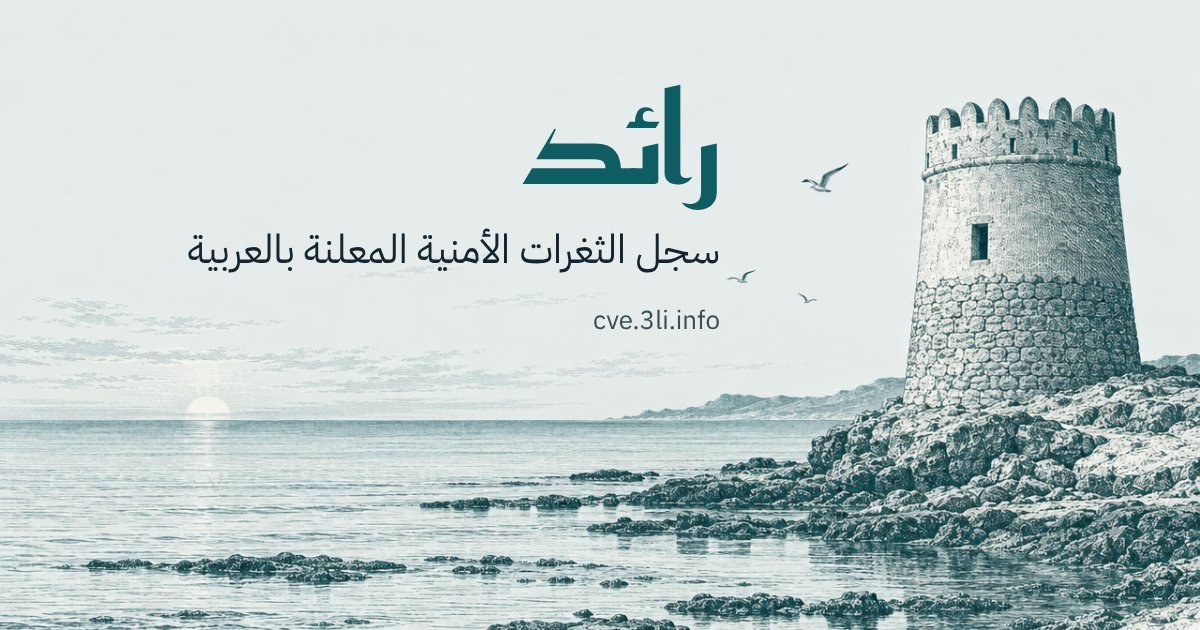
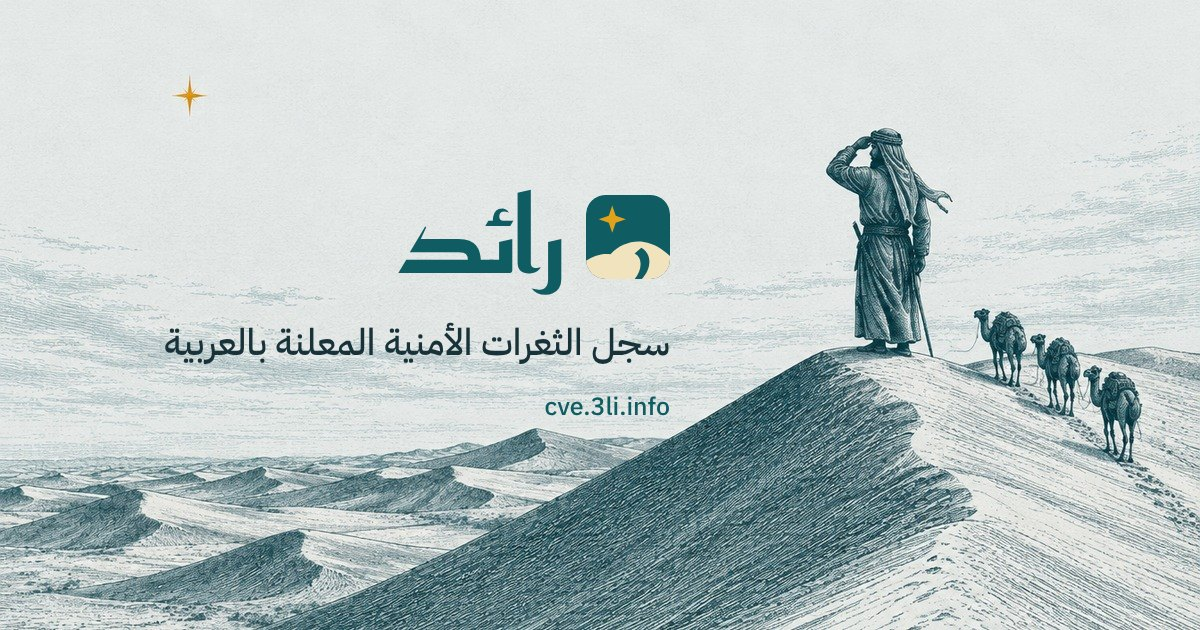
شعار جديد وأيقونات وصورة الرائد (#8)

diff --git a/docs/about/index.html b/docs/about/index.html
@@ -16,6 +16,9 @@
 <meta name="twitter:card" content="summary_large_image">
 <meta name="theme-color" content="#0f5c63">
 <link rel="icon" href="/assets/img/mark.svg" type="image/svg+xml">
+<link rel="icon" href="/assets/img/favicon-32.png" sizes="32x32" type="image/png">
+<link rel="apple-touch-icon" href="/assets/img/apple-touch-icon.png">
+<link rel="manifest" href="/manifest.webmanifest">
 <link rel="alternate" type="application/atom+xml" title="رائد: الثغرات الحرجة والمستغلة" href="/feed.xml">
 <link rel="preconnect" href="https://fonts.googleapis.com">
 <link rel="preconnect" href="https://fonts.gstatic.com" crossorigin>
@@ -29,7 +32,7 @@
 <a class="skip" href="#main">انتقل إلى المحتوى</a>
 <header class="top">
   <div class="wrap">
-    <a class="brand" href="/"><svg viewBox="0 0 40 40" aria-hidden="true"><path fill="currentColor" d="M6 6h6v5h4V6h8v5h4V6h6v12l-3 3v15H9V21l-3-3z" opacity=".18"/><path fill="none" stroke="currentColor" stroke-width="2.4" stroke-linejoin="round" d="M6 6h6v5h4V6h8v5h4V6h6v12l-3 3v15H9V21l-3-3z"/><path fill="currentColor" d="M17 36v-7a3 3 0 0 1 6 0v7z"/><rect x="18.8" y="16" width="2.4" height="6" rx="1.2" fill="currentColor"/></svg><span><b>رائد</b><small>سجل الثغرات الأمنية المعلنة بالعربية</small></span></a>
+    <a class="brand" href="/"><svg viewBox="0 0 48 48" aria-hidden="true"> <defs><clipPath id="mk"><rect width="48" height="48" rx="11"/></clipPath></defs> <rect width="48" height="48" rx="11" fill="#0f5c63"/> <path fill="#e0a21b" d="M15 6 L17 11.8 L22.8 13.8 L17 15.8 L15 21.6 L13 15.8 L7.2 13.8 L13 11.8 Z"/> <g clip-path="url(#mk)"> <path fill="#f2e3bf" d="M-2 48 L-2 39 C 4 34.5, 9 33.2, 14 33.8 C 19 28.5, 26 25.8, 33 26.8 C 40 27.9, 45.5 32, 50 37 L50 48 Z"/> <path fill="#0f5c63" d="M31.6 30.2 C 34.6 31.8, 36.4 34.8, 36.2 38.6 C 36 43, 33.6 46.6, 30.4 49.5 L 26.6 49.5 C 29.4 46.4, 31.2 43, 31.2 39.4 C 31.2 36.6, 30 34.6, 27.8 33.4 Z"/> </g> </svg><span><b>رائد</b><small>سجل الثغرات الأمنية المعلنة بالعربية</small></span></a>
     <button class="menu" type="button" aria-expanded="false" aria-controls="nav">القائمة</button>
     <nav class="nav" id="nav" aria-label="الأقسام"><a href="/latest/">أحدث الثغرات</a><a href="/kev/">المستغلة فعلياً</a><a href="/week/">النشرة الأسبوعية</a><a href="/about/" aria-current="page">عن البرنامج</a><a href="/cna/">الجهات المرقّمة</a><a href="/glossary/">المصطلحات</a></nav>
     <button class="theme" type="button" aria-label="تبديل المظهر الفاتح والداكن"><svg viewBox="0 0 24 24" fill="none" stroke="currentColor" stroke-width="2"><path d="M21 12.8A9 9 0 1 1 11.2 3a7 7 0 0 0 9.8 9.8z"/></svg></button>
@@ -48,7 +51,7 @@
   </div>
 
   <figure class="figure">
-    <img src="/assets/img/watchtower.webp" alt="برج مراقبة ساحلي من الحجر المرجاني يطل على البحر عند الفجر" width="1280" height="549" loading="lazy">
+    <img src="/assets/img/scout.webp" alt="رائد واقف على قمة كثيب يظلل عينيه ويتطلع إلى نجمة في الأفق، وخلفه قافلة من الإبل تتبعه" width="1280" height="549" loading="lazy">
     <figcaption>الرائد في العربية من يتقدم قومه فيستكشف لهم الطريق ويحذّرهم مما أمامه، ومن أمثالهم «الرائد لا يكذب أهله»، ومنه اسم هذا السجل.</figcaption>
   </figure>
 

diff --git a/docs/advisories/index.html b/docs/advisories/index.html
@@ -16,6 +16,9 @@
 <meta name="twitter:card" content="summary_large_image">
 <meta name="theme-color" content="#0f5c63">
 <link rel="icon" href="/assets/img/mark.svg" type="image/svg+xml">
+<link rel="icon" href="/assets/img/favicon-32.png" sizes="32x32" type="image/png">
+<link rel="apple-touch-icon" href="/assets/img/apple-touch-icon.png">
+<link rel="manifest" href="/manifest.webmanifest">
 <link rel="alternate" type="application/atom+xml" title="رائد: الثغرات الحرجة والمستغلة" href="/feed.xml">
 <link rel="preconnect" href="https://fonts.googleapis.com">
 <link rel="preconnect" href="https://fonts.gstatic.com" crossorigin>
@@ -29,7 +32,7 @@
 <a class="skip" href="#main">انتقل إلى المحتوى</a>
 <header class="top">
   <div class="wrap">
-    <a class="brand" href="/"><svg viewBox="0 0 40 40" aria-hidden="true"><path fill="currentColor" d="M6 6h6v5h4V6h8v5h4V6h6v12l-3 3v15H9V21l-3-3z" opacity=".18"/><path fill="none" stroke="currentColor" stroke-width="2.4" stroke-linejoin="round" d="M6 6h6v5h4V6h8v5h4V6h6v12l-3 3v15H9V21l-3-3z"/><path fill="currentColor" d="M17 36v-7a3 3 0 0 1 6 0v7z"/><rect x="18.8" y="16" width="2.4" height="6" rx="1.2" fill="currentColor"/></svg><span><b>رائد</b><small>سجل الثغرات الأمنية المعلنة بالعربية</small></span></a>
+    <a class="brand" href="/"><svg viewBox="0 0 48 48" aria-hidden="true"> <defs><clipPath id="mk"><rect width="48" height="48" rx="11"/></clipPath></defs> <rect width="48" height="48" rx="11" fill="#0f5c63"/> <path fill="#e0a21b" d="M15 6 L17 11.8 L22.8 13.8 L17 15.8 L15 21.6 L13 15.8 L7.2 13.8 L13 11.8 Z"/> <g clip-path="url(#mk)"> <path fill="#f2e3bf" d="M-2 48 L-2 39 C 4 34.5, 9 33.2, 14 33.8 C 19 28.5, 26 25.8, 33 26.8 C 40 27.9, 45.5 32, 50 37 L50 48 Z"/> <path fill="#0f5c63" d="M31.6 30.2 C 34.6 31.8, 36.4 34.8, 36.2 38.6 C 36 43, 33.6 46.6, 30.4 49.5 L 26.6 49.5 C 29.4 46.4, 31.2 43, 31.2 39.4 C 31.2 36.6, 30 34.6, 27.8 33.4 Z"/> </g> </svg><span><b>رائد</b><small>سجل الثغرات الأمنية المعلنة بالعربية</small></span></a>
     <button class="menu" type="button" aria-expanded="false" aria-controls="nav">القائمة</button>
     <nav class="nav" id="nav" aria-label="الأقسام"><a href="/latest/">أحدث الثغرات</a><a href="/kev/">المستغلة فعلياً</a><a href="/week/">النشرة الأسبوعية</a><a href="/about/">عن البرنامج</a><a href="/cna/" aria-current="page">الجهات المرقّمة</a><a href="/glossary/">المصطلحات</a></nav>
     <button class="theme" type="button" aria-label="تبديل المظهر الفاتح والداكن"><svg viewBox="0 0 24 24" fill="none" stroke="currentColor" stroke-width="2"><path d="M21 12.8A9 9 0 1 1 11.2 3a7 7 0 0 0 9.8 9.8z"/></svg></button>

diff --git a/docs/cna/index.html b/docs/cna/index.html
@@ -16,6 +16,9 @@
 <meta name="twitter:card" content="summary_large_image">
 <meta name="theme-color" content="#0f5c63">
 <link rel="icon" href="/assets/img/mark.svg" type="image/svg+xml">
+<link rel="icon" href="/assets/img/favicon-32.png" sizes="32x32" type="image/png">
+<link rel="apple-touch-icon" href="/assets/img/apple-touch-icon.png">
+<link rel="manifest" href="/manifest.webmanifest">
 <link rel="alternate" type="application/atom+xml" title="رائد: الثغرات الحرجة والمستغلة" href="/feed.xml">
 <link rel="preconnect" href="https://fonts.googleapis.com">
 <link rel="preconnect" href="https://fonts.gstatic.com" crossorigin>
@@ -29,7 +32,7 @@
 <a class="skip" href="#main">انتقل إلى المحتوى</a>
 <header class="top">
   <div class="wrap">
-    <a class="brand" href="/"><svg viewBox="0 0 40 40" aria-hidden="true"><path fill="currentColor" d="M6 6h6v5h4V6h8v5h4V6h6v12l-3 3v15H9V21l-3-3z" opacity=".18"/><path fill="none" stroke="currentColor" stroke-width="2.4" stroke-linejoin="round" d="M6 6h6v5h4V6h8v5h4V6h6v12l-3 3v15H9V21l-3-3z"/><path fill="currentColor" d="M17 36v-7a3 3 0 0 1 6 0v7z"/><rect x="18.8" y="16" width="2.4" height="6" rx="1.2" fill="currentColor"/></svg><span><b>رائد</b><small>سجل الثغرات الأمنية المعلنة بالعربية</small></span></a>
+    <a class="brand" href="/"><svg viewBox="0 0 48 48" aria-hidden="true"> <defs><clipPath id="mk"><rect width="48" height="48" rx="11"/></clipPath></defs> <rect width="48" height="48" rx="11" fill="#0f5c63"/> <path fill="#e0a21b" d="M15 6 L17 11.8 L22.8 13.8 L17 15.8 L15 21.6 L13 15.8 L7.2 13.8 L13 11.8 Z"/> <g clip-path="url(#mk)"> <path fill="#f2e3bf" d="M-2 48 L-2 39 C 4 34.5, 9 33.2, 14 33.8 C 19 28.5, 26 25.8, 33 26.8 C 40 27.9, 45.5 32, 50 37 L50 48 Z"/> <path fill="#0f5c63" d="M31.6 30.2 C 34.6 31.8, 36.4 34.8, 36.2 38.6 C 36 43, 33.6 46.6, 30.4 49.5 L 26.6 49.5 C 29.4 46.4, 31.2 43, 31.2 39.4 C 31.2 36.6, 30 34.6, 27.8 33.4 Z"/> </g> </svg><span><b>رائد</b><small>سجل الثغرات الأمنية المعلنة بالعربية</small></span></a>
     <button class="menu" type="button" aria-expanded="false" aria-controls="nav">القائمة</button>
     <nav class="nav" id="nav" aria-label="الأقسام"><a href="/latest/">أحدث الثغرات</a><a href="/kev/">المستغلة فعلياً</a><a href="/week/">النشرة الأسبوعية</a><a href="/about/">عن البرنامج</a><a href="/cna/" aria-current="page">الجهات المرقّمة</a><a href="/glossary/">المصطلحات</a></nav>
     <button class="theme" type="button" aria-label="تبديل المظهر الفاتح والداكن"><svg viewBox="0 0 24 24" fill="none" stroke="currentColor" stroke-width="2"><path d="M21 12.8A9 9 0 1 1 11.2 3a7 7 0 0 0 9.8 9.8z"/></svg></button>

diff --git a/docs/cna/join/index.html b/docs/cna/join/index.html
@@ -16,6 +16,9 @@
 <meta name="twitter:card" content="summary_large_image">
 <meta name="theme-color" content="#0f5c63">
 <link rel="icon" href="/assets/img/mark.svg" type="image/svg+xml">
+<link rel="icon" href="/assets/img/favicon-32.png" sizes="32x32" type="image/png">
+<link rel="apple-touch-icon" href="/assets/img/apple-touch-icon.png">
+<link rel="manifest" href="/manifest.webmanifest">
 <link rel="alternate" type="application/atom+xml" title="رائد: الثغرات الحرجة والمستغلة" href="/feed.xml">
 <link rel="preconnect" href="https://fonts.googleapis.com">
 <link rel="preconnect" href="https://fonts.gstatic.com" crossorigin>
@@ -29,7 +32,7 @@
 <a class="skip" href="#main">انتقل إلى المحتوى</a>
 <header class="top">
   <div class="wrap">
-    <a class="brand" href="/"><svg viewBox="0 0 40 40" aria-hidden="true"><path fill="currentColor" d="M6 6h6v5h4V6h8v5h4V6h6v12l-3 3v15H9V21l-3-3z" opacity=".18"/><path fill="none" stroke="currentColor" stroke-width="2.4" stroke-linejoin="round" d="M6 6h6v5h4V6h8v5h4V6h6v12l-3 3v15H9V21l-3-3z"/><path fill="currentColor" d="M17 36v-7a3 3 0 0 1 6 0v7z"/><rect x="18.8" y="16" width="2.4" height="6" rx="1.2" fill="currentColor"/></svg><span><b>رائد</b><small>سجل الثغرات الأمنية المعلنة بالعربية</small></span></a>
+    <a class="brand" href="/"><svg viewBox="0 0 48 48" aria-hidden="true"> <defs><clipPath id="mk"><rect width="48" height="48" rx="11"/></clipPath></defs> <rect width="48" height="48" rx="11" fill="#0f5c63"/> <path fill="#e0a21b" d="M15 6 L17 11.8 L22.8 13.8 L17 15.8 L15 21.6 L13 15.8 L7.2 13.8 L13 11.8 Z"/> <g clip-path="url(#mk)"> <path fill="#f2e3bf" d="M-2 48 L-2 39 C 4 34.5, 9 33.2, 14 33.8 C 19 28.5, 26 25.8, 33 26.8 C 40 27.9, 45.5 32, 50 37 L50 48 Z"/> <path fill="#0f5c63" d="M31.6 30.2 C 34.6 31.8, 36.4 34.8, 36.2 38.6 C 36 43, 33.6 46.6, 30.4 49.5 L 26.6 49.5 C 29.4 46.4, 31.2 43, 31.2 39.4 C 31.2 36.6, 30 34.6, 27.8 33.4 Z"/> </g> </svg><span><b>رائد</b><small>سجل الثغرات الأمنية المعلنة بالعربية</small></span></a>
     <button class="menu" type="button" aria-expanded="false" aria-controls="nav">القائمة</button>
     <nav class="nav" id="nav" aria-label="الأقسام"><a href="/latest/">أحدث الثغرات</a><a href="/kev/">المستغلة فعلياً</a><a href="/week/">النشرة الأسبوعية</a><a href="/about/">عن البرنامج</a><a href="/cna/" aria-current="page">الجهات المرقّمة</a><a href="/glossary/">المصطلحات</a></nav>
     <button class="theme" type="button" aria-label="تبديل المظهر الفاتح والداكن"><svg viewBox="0 0 24 24" fill="none" stroke="currentColor" stroke-width="2"><path d="M21 12.8A9 9 0 1 1 11.2 3a7 7 0 0 0 9.8 9.8z"/></svg></button>

diff --git a/docs/glossary/index.html b/docs/glossary/index.html
@@ -16,6 +16,9 @@
 <meta name="twitter:card" content="summary_large_image">
 <meta name="theme-color" content="#0f5c63">
 <link rel="icon" href="/assets/img/mark.svg" type="image/svg+xml">
+<link rel="icon" href="/assets/img/favicon-32.png" sizes="32x32" type="image/png">
+<link rel="apple-touch-icon" href="/assets/img/apple-touch-icon.png">
+<link rel="manifest" href="/manifest.webmanifest">
 <link rel="alternate" type="application/atom+xml" title="رائد: الثغرات الحرجة والمستغلة" href="/feed.xml">
 <link rel="preconnect" href="https://fonts.googleapis.com">
 <link rel="preconnect" href="https://fonts.gstatic.com" crossorigin>
@@ -29,7 +32,7 @@
 <a class="skip" href="#main">انتقل إلى المحتوى</a>
 <header class="top">
   <div class="wrap">
-    <a class="brand" href="/"><svg viewBox="0 0 40 40" aria-hidden="true"><path fill="currentColor" d="M6 6h6v5h4V6h8v5h4V6h6v12l-3 3v15H9V21l-3-3z" opacity=".18"/><path fill="none" stroke="currentColor" stroke-width="2.4" stroke-linejoin="round" d="M6 6h6v5h4V6h8v5h4V6h6v12l-3 3v15H9V21l-3-3z"/><path fill="currentColor" d="M17 36v-7a3 3 0 0 1 6 0v7z"/><rect x="18.8" y="16" width="2.4" height="6" rx="1.2" fill="currentColor"/></svg><span><b>رائد</b><small>سجل الثغرات الأمنية المعلنة بالعربية</small></span></a>
+    <a class="brand" href="/"><svg viewBox="0 0 48 48" aria-hidden="true"> <defs><clipPath id="mk"><rect width="48" height="48" rx="11"/></clipPath></defs> <rect width="48" height="48" rx="11" fill="#0f5c63"/> <path fill="#e0a21b" d="M15 6 L17 11.8 L22.8 13.8 L17 15.8 L15 21.6 L13 15.8 L7.2 13.8 L13 11.8 Z"/> <g clip-path="url(#mk)"> <path fill="#f2e3bf" d="M-2 48 L-2 39 C 4 34.5, 9 33.2, 14 33.8 C 19 28.5, 26 25.8, 33 26.8 C 40 27.9, 45.5 32, 50 37 L50 48 Z"/> <path fill="#0f5c63" d="M31.6 30.2 C 34.6 31.8, 36.4 34.8, 36.2 38.6 C 36 43, 33.6 46.6, 30.4 49.5 L 26.6 49.5 C 29.4 46.4, 31.2 43, 31.2 39.4 C 31.2 36.6, 30 34.6, 27.8 33.4 Z"/> </g> </svg><span><b>رائد</b><small>سجل الثغرات الأمنية المعلنة بالعربية</small></span></a>
     <button class="menu" type="button" aria-expanded="false" aria-controls="nav">القائمة</button>
     <nav class="nav" id="nav" aria-label="الأقسام"><a href="/latest/">أحدث الثغرات</a><a href="/kev/">المستغلة فعلياً</a><a href="/week/">النشرة الأسبوعية</a><a href="/about/">عن البرنامج</a><a href="/cna/">الجهات المرقّمة</a><a href="/glossary/" aria-current="page">المصطلحات</a></nav>
     <button class="theme" type="button" aria-label="تبديل المظهر الفاتح والداكن"><svg viewBox="0 0 24 24" fill="none" stroke="currentColor" stroke-width="2"><path d="M21 12.8A9 9 0 1 1 11.2 3a7 7 0 0 0 9.8 9.8z"/></svg></button>

diff --git a/docs/kev/index.html b/docs/kev/index.html
@@ -16,6 +16,9 @@
 <meta name="twitter:card" content="summary_large_image">
 <meta name="theme-color" content="#0f5c63">
 <link rel="icon" href="/assets/img/mark.svg" type="image/svg+xml">
+<link rel="icon" href="/assets/img/favicon-32.png" sizes="32x32" type="image/png">
+<link rel="apple-touch-icon" href="/assets/img/apple-touch-icon.png">
+<link rel="manifest" href="/manifest.webmanifest">
 <link rel="alternate" type="application/atom+xml" title="رائد: الثغرات الحرجة والمستغلة" href="/feed.xml">
 <link rel="preconnect" href="https://fonts.googleapis.com">
 <link rel="preconnect" href="https://fonts.gstatic.com" crossorigin>
@@ -29,7 +32,7 @@
 <a class="skip" href="#main">انتقل إلى المحتوى</a>
 <header class="top">
   <div class="wrap">
-    <a class="brand" href="/"><svg viewBox="0 0 40 40" aria-hidden="true"><path fill="currentColor" d="M6 6h6v5h4V6h8v5h4V6h6v12l-3 3v15H9V21l-3-3z" opacity=".18"/><path fill="none" stroke="currentColor" stroke-width="2.4" stroke-linejoin="round" d="M6 6h6v5h4V6h8v5h4V6h6v12l-3 3v15H9V21l-3-3z"/><path fill="currentColor" d="M17 36v-7a3 3 0 0 1 6 0v7z"/><rect x="18.8" y="16" width="2.4" height="6" rx="1.2" fill="currentColor"/></svg><span><b>رائد</b><small>سجل الثغرات الأمنية المعلنة بالعربية</small></span></a>
+    <a class="brand" href="/"><svg viewBox="0 0 48 48" aria-hidden="true"> <defs><clipPath id="mk"><rect width="48" height="48" rx="11"/></clipPath></defs> <rect width="48" height="48" rx="11" fill="#0f5c63"/> <path fill="#e0a21b" d="M15 6 L17 11.8 L22.8 13.8 L17 15.8 L15 21.6 L13 15.8 L7.2 13.8 L13 11.8 Z"/> <g clip-path="url(#mk)"> <path fill="#f2e3bf" d="M-2 48 L-2 39 C 4 34.5, 9 33.2, 14 33.8 C 19 28.5, 26 25.8, 33 26.8 C 40 27.9, 45.5 32, 50 37 L50 48 Z"/> <path fill="#0f5c63" d="M31.6 30.2 C 34.6 31.8, 36.4 34.8, 36.2 38.6 C 36 43, 33.6 46.6, 30.4 49.5 L 26.6 49.5 C 29.4 46.4, 31.2 43, 31.2 39.4 C 31.2 36.6, 30 34.6, 27.8 33.4 Z"/> </g> </svg><span><b>رائد</b><small>سجل الثغرات الأمنية المعلنة بالعربية</small></span></a>
     <button class="menu" type="button" aria-expanded="false" aria-controls="nav">القائمة</button>
     <nav class="nav" id="nav" aria-label="الأقسام"><a href="/latest/">أحدث الثغرات</a><a href="/kev/" aria-current="page">المستغلة فعلياً</a><a href="/week/">النشرة الأسبوعية</a><a href="/about/">عن البرنامج</a><a href="/cna/">الجهات المرقّمة</a><a href="/glossary/">المصطلحات</a></nav>
     <button class="theme" type="button" aria-label="تبديل المظهر الفاتح والداكن"><svg viewBox="0 0 24 24" fill="none" stroke="currentColor" stroke-width="2"><path d="M21 12.8A9 9 0 1 1 11.2 3a7 7 0 0 0 9.8 9.8z"/></svg></button>

diff --git a/docs/latest/index.html b/docs/latest/index.html
@@ -16,6 +16,9 @@
 <meta name="twitter:card" content="summary_large_image">
 <meta name="theme-color" content="#0f5c63">
 <link rel="icon" href="/assets/img/mark.svg" type="image/svg+xml">
+<link rel="icon" href="/assets/img/favicon-32.png" sizes="32x32" type="image/png">
+<link rel="apple-touch-icon" href="/assets/img/apple-touch-icon.png">
+<link rel="manifest" href="/manifest.webmanifest">
 <link rel="alternate" type="application/atom+xml" title="رائد: الثغرات الحرجة والمستغلة" href="/feed.xml">
 <link rel="preconnect" href="https://fonts.googleapis.com">
 <link rel="preconnect" href="https://fonts.gstatic.com" crossorigin>
@@ -29,7 +32,7 @@
 <a class="skip" href="#main">انتقل إلى المحتوى</a>
 <header class="top">
   <div class="wrap">
-    <a class="brand" href="/"><svg viewBox="0 0 40 40" aria-hidden="true"><path fill="currentColor" d="M6 6h6v5h4V6h8v5h4V6h6v12l-3 3v15H9V21l-3-3z" opacity=".18"/><path fill="none" stroke="currentColor" stroke-width="2.4" stroke-linejoin="round" d="M6 6h6v5h4V6h8v5h4V6h6v12l-3 3v15H9V21l-3-3z"/><path fill="currentColor" d="M17 36v-7a3 3 0 0 1 6 0v7z"/><rect x="18.8" y="16" width="2.4" height="6" rx="1.2" fill="currentColor"/></svg><span><b>رائد</b><small>سجل الثغرات الأمنية المعلنة بالعربية</small></span></a>
+    <a class="brand" href="/"><svg viewBox="0 0 48 48" aria-hidden="true"> <defs><clipPath id="mk"><rect width="48" height="48" rx="11"/></clipPath></defs> <rect width="48" height="48" rx="11" fill="#0f5c63"/> <path fill="#e0a21b" d="M15 6 L17 11.8 L22.8 13.8 L17 15.8 L15 21.6 L13 15.8 L7.2 13.8 L13 11.8 Z"/> <g clip-path="url(#mk)"> <path fill="#f2e3bf" d="M-2 48 L-2 39 C 4 34.5, 9 33.2, 14 33.8 C 19 28.5, 26 25.8, 33 26.8 C 40 27.9, 45.5 32, 50 37 L50 48 Z"/> <path fill="#0f5c63" d="M31.6 30.2 C 34.6 31.8, 36.4 34.8, 36.2 38.6 C 36 43, 33.6 46.6, 30.4 49.5 L 26.6 49.5 C 29.4 46.4, 31.2 43, 31.2 39.4 C 31.2 36.6, 30 34.6, 27.8 33.4 Z"/> </g> </svg><span><b>رائد</b><small>سجل الثغرات الأمنية المعلنة بالعربية</small></span></a>
     <button class="menu" type="button" aria-expanded="false" aria-controls="nav">القائمة</button>
     <nav class="nav" id="nav" aria-label="الأقسام"><a href="/latest/" aria-current="page">أحدث الثغرات</a><a href="/kev/">المستغلة فعلياً</a><a href="/week/">النشرة الأسبوعية</a><a href="/about/">عن البرنامج</a><a href="/cna/">الجهات المرقّمة</a><a href="/glossary/">المصطلحات</a></nav>
     <button class="theme" type="button" aria-label="تبديل المظهر الفاتح والداكن"><svg viewBox="0 0 24 24" fill="none" stroke="currentColor" stroke-width="2"><path d="M21 12.8A9 9 0 1 1 11.2 3a7 7 0 0 0 9.8 9.8z"/></svg></button>

diff --git a/docs/security/index.html b/docs/security/index.html
@@ -16,6 +16,9 @@
 <meta name="twitter:card" content="summary_large_image">
 <meta name="theme-color" content="#0f5c63">
 <link rel="icon" href="/assets/img/mark.svg" type="image/svg+xml">
+<link rel="icon" href="/assets/img/favicon-32.png" sizes="32x32" type="image/png">
+<link rel="apple-touch-icon" href="/assets/img/apple-touch-icon.png">
+<link rel="manifest" href="/manifest.webmanifest">
 <link rel="alternate" type="application/atom+xml" title="رائد: الثغرات الحرجة والمستغلة" href="/feed.xml">
 <link rel="preconnect" href="https://fonts.googleapis.com">
 <link rel="preconnect" href="https://fonts.gstatic.com" crossorigin>
@@ -29,7 +32,7 @@
 <a class="skip" href="#main">انتقل إلى المحتوى</a>
 <header class="top">
   <div class="wrap">
-    <a class="brand" href="/"><svg viewBox="0 0 40 40" aria-hidden="true"><path fill="currentColor" d="M6 6h6v5h4V6h8v5h4V6h6v12l-3 3v15H9V21l-3-3z" opacity=".18"/><path fill="none" stroke="currentColor" stroke-width="2.4" stroke-linejoin="round" d="M6 6h6v5h4V6h8v5h4V6h6v12l-3 3v15H9V21l-3-3z"/><path fill="currentColor" d="M17 36v-7a3 3 0 0 1 6 0v7z"/><rect x="18.8" y="16" width="2.4" height="6" rx="1.2" fill="currentColor"/></svg><span><b>رائد</b><small>سجل الثغرات الأمنية المعلنة بالعربية</small></span></a>
+    <a class="brand" href="/"><svg viewBox="0 0 48 48" aria-hidden="true"> <defs><clipPath id="mk"><rect width="48" height="48" rx="11"/></clipPath></defs> <rect width="48" height="48" rx="11" fill="#0f5c63"/> <path fill="#e0a21b" d="M15 6 L17 11.8 L22.8 13.8 L17 15.8 L15 21.6 L13 15.8 L7.2 13.8 L13 11.8 Z"/> <g clip-path="url(#mk)"> <path fill="#f2e3bf" d="M-2 48 L-2 39 C 4 34.5, 9 33.2, 14 33.8 C 19 28.5, 26 25.8, 33 26.8 C 40 27.9, 45.5 32, 50 37 L50 48 Z"/> <path fill="#0f5c63" d="M31.6 30.2 C 34.6 31.8, 36.4 34.8, 36.2 38.6 C 36 43, 33.6 46.6, 30.4 49.5 L 26.6 49.5 C 29.4 46.4, 31.2 43, 31.2 39.4 C 31.2 36.6, 30 34.6, 27.8 33.4 Z"/> </g> </svg><span><b>رائد</b><small>سجل الثغرات الأمنية المعلنة بالعربية</small></span></a>
     <button class="menu" type="button" aria-expanded="false" aria-controls="nav">القائمة</button>
     <nav class="nav" id="nav" aria-label="الأقسام"><a href="/latest/">أحدث الثغرات</a><a href="/kev/">المستغلة فعلياً</a><a href="/week/">النشرة الأسبوعية</a><a href="/about/">عن البرنامج</a><a href="/cna/" aria-current="page">الجهات المرقّمة</a><a href="/glossary/">المصطلحات</a></nav>
     <button class="theme" type="button" aria-label="تبديل المظهر الفاتح والداكن"><svg viewBox="0 0 24 24" fill="none" stroke="currentColor" stroke-width="2"><path d="M21 12.8A9 9 0 1 1 11.2 3a7 7 0 0 0 9.8 9.8z"/></svg></button>

diff --git a/docs/week/2026-W40/index.html b/docs/week/2026-W40/index.html
@@ -16,6 +16,9 @@
 <meta name="twitter:card" content="summary_large_image">
 <meta name="theme-color" content="#0f5c63">
 <link rel="icon" href="/assets/img/mark.svg" type="image/svg+xml">
+<link rel="icon" href="/assets/img/favicon-32.png" sizes="32x32" type="image/png">
+<link rel="apple-touch-icon" href="/assets/img/apple-touch-icon.png">
+<link rel="manifest" href="/manifest.webmanifest">
 <link rel="alternate" type="application/atom+xml" title="رائد: الثغرات الحرجة والمستغلة" href="/feed.xml">
 <link rel="preconnect" href="https://fonts.googleapis.com">
 <link rel="preconnect" href="https://fonts.gstatic.com" crossorigin>
@@ -29,7 +32,7 @@
 <a class="skip" href="#main">انتقل إلى المحتوى</a>
 <header class="top">
   <div class="wrap">
-    <a class="brand" href="/"><svg viewBox="0 0 40 40" aria-hidden="true"><path fill="currentColor" d="M6 6h6v5h4V6h8v5h4V6h6v12l-3 3v15H9V21l-3-3z" opacity=".18"/><path fill="none" stroke="currentColor" stroke-width="2.4" stroke-linejoin="round" d="M6 6h6v5h4V6h8v5h4V6h6v12l-3 3v15H9V21l-3-3z"/><path fill="currentColor" d="M17 36v-7a3 3 0 0 1 6 0v7z"/><rect x="18.8" y="16" width="2.4" height="6" rx="1.2" fill="currentColor"/></svg><span><b>رائد</b><small>سجل الثغرات الأمنية المعلنة بالعربية</small></span></a>
+    <a class="brand" href="/"><svg viewBox="0 0 48 48" aria-hidden="true"> <defs><clipPath id="mk"><rect width="48" height="48" rx="11"/></clipPath></defs> <rect width="48" height="48" rx="11" fill="#0f5c63"/> <path fill="#e0a21b" d="M15 6 L17 11.8 L22.8 13.8 L17 15.8 L15 21.6 L13 15.8 L7.2 13.8 L13 11.8 Z"/> <g clip-path="url(#mk)"> <path fill="#f2e3bf" d="M-2 48 L-2 39 C 4 34.5, 9 33.2, 14 33.8 C 19 28.5, 26 25.8, 33 26.8 C 40 27.9, 45.5 32, 50 37 L50 48 Z"/> <path fill="#0f5c63" d="M31.6 30.2 C 34.6 31.8, 36.4 34.8, 36.2 38.6 C 36 43, 33.6 46.6, 30.4 49.5 L 26.6 49.5 C 29.4 46.4, 31.2 43, 31.2 39.4 C 31.2 36.6, 30 34.6, 27.8 33.4 Z"/> </g> </svg><span><b>رائد</b><small>سجل الثغرات الأمنية المعلنة بالعربية</small></span></a>
     <button class="menu" type="button" aria-expanded="false" aria-controls="nav">القائمة</button>
     <nav class="nav" id="nav" aria-label="الأقسام"><a href="/latest/">أحدث الثغرات</a><a href="/kev/">المستغلة فعلياً</a><a href="/week/" aria-current="page">النشرة الأسبوعية</a><a href="/about/">عن البرنامج</a><a href="/cna/">الجهات المرقّمة</a><a href="/glossary/">المصطلحات</a></nav>
     <button class="theme" type="button" aria-label="تبديل المظهر الفاتح والداكن"><svg viewBox="0 0 24 24" fill="none" stroke="currentColor" stroke-width="2"><path d="M21 12.8A9 9 0 1 1 11.2 3a7 7 0 0 0 9.8 9.8z"/></svg></button>

diff --git a/docs/week/2026-W41/index.html b/docs/week/2026-W41/index.html
@@ -16,6 +16,9 @@
 <meta name="twitter:card" content="summary_large_image">
 <meta name="theme-color" content="#0f5c63">
 <link rel="icon" href="/assets/img/mark.svg" type="image/svg+xml">
+<link rel="icon" href="/assets/img/favicon-32.png" sizes="32x32" type="image/png">
+<link rel="apple-touch-icon" href="/assets/img/apple-touch-icon.png">
+<link rel="manifest" href="/manifest.webmanifest">
 <link rel="alternate" type="application/atom+xml" title="رائد: الثغرات الحرجة والمستغلة" href="/feed.xml">
 <link rel="preconnect" href="https://fonts.googleapis.com">
 <link rel="preconnect" href="https://fonts.gstatic.com" crossorigin>
@@ -29,7 +32,7 @@
 <a class="skip" href="#main">انتقل إلى المحتوى</a>
 <header class="top">
   <div class="wrap">
-    <a class="brand" href="/"><svg viewBox="0 0 40 40" aria-hidden="true"><path fill="currentColor" d="M6 6h6v5h4V6h8v5h4V6h6v12l-3 3v15H9V21l-3-3z" opacity=".18"/><path fill="none" stroke="currentColor" stroke-width="2.4" stroke-linejoin="round" d="M6 6h6v5h4V6h8v5h4V6h6v12l-3 3v15H9V21l-3-3z"/><path fill="currentColor" d="M17 36v-7a3 3 0 0 1 6 0v7z"/><rect x="18.8" y="16" width="2.4" height="6" rx="1.2" fill="currentColor"/></svg><span><b>رائد</b><small>سجل الثغرات الأمنية المعلنة بالعربية</small></span></a>
+    <a class="brand" href="/"><svg viewBox="0 0 48 48" aria-hidden="true"> <defs><clipPath id="mk"><rect width="48" height="48" rx="11"/></clipPath></defs> <rect width="48" height="48" rx="11" fill="#0f5c63"/> <path fill="#e0a21b" d="M15 6 L17 11.8 L22.8 13.8 L17 15.8 L15 21.6 L13 15.8 L7.2 13.8 L13 11.8 Z"/> <g clip-path="url(#mk)"> <path fill="#f2e3bf" d="M-2 48 L-2 39 C 4 34.5, 9 33.2, 14 33.8 C 19 28.5, 26 25.8, 33 26.8 C 40 27.9, 45.5 32, 50 37 L50 48 Z"/> <path fill="#0f5c63" d="M31.6 30.2 C 34.6 31.8, 36.4 34.8, 36.2 38.6 C 36 43, 33.6 46.6, 30.4 49.5 L 26.6 49.5 C 29.4 46.4, 31.2 43, 31.2 39.4 C 31.2 36.6, 30 34.6, 27.8 33.4 Z"/> </g> </svg><span><b>رائد</b><small>سجل الثغرات الأمنية المعلنة بالعربية</small></span></a>
     <button class="menu" type="button" aria-expanded="false" aria-controls="nav">القائمة</button>
     <nav class="nav" id="nav" aria-label="الأقسام"><a href="/latest/">أحدث الثغرات</a><a href="/kev/">المستغلة فعلياً</a><a href="/week/" aria-current="page">النشرة الأسبوعية</a><a href="/about/">عن البرنامج</a><a href="/cna/">الجهات المرقّمة</a><a href="/glossary/">المصطلحات</a></nav>
     <button class="theme" type="button" aria-label="تبديل المظهر الفاتح والداكن"><svg viewBox="0 0 24 24" fill="none" stroke="currentColor" stroke-width="2"><path d="M21 12.8A9 9 0 1 1 11.2 3a7 7 0 0 0 9.8 9.8z"/></svg></button>

diff --git a/docs/week/2026-W42/index.html b/docs/week/2026-W42/index.html
@@ -16,6 +16,9 @@
 <meta name="twitter:card" content="summary_large_image">
 <meta name="theme-color" content="#0f5c63">
 <link rel="icon" href="/assets/img/mark.svg" type="image/svg+xml">
+<link rel="icon" href="/assets/img/favicon-32.png" sizes="32x32" type="image/png">
+<link rel="apple-touch-icon" href="/assets/img/apple-touch-icon.png">
+<link rel="manifest" href="/manifest.webmanifest">
 <link rel="alternate" type="application/atom+xml" title="رائد: الثغرات الحرجة والمستغلة" href="/feed.xml">
 <link rel="preconnect" href="https://fonts.googleapis.com">
 <link rel="preconnect" href="https://fonts.gstatic.com" crossorigin>
@@ -29,7 +32,7 @@
 <a class="skip" href="#main">انتقل إلى المحتوى</a>
 <header class="top">
   <div class="wrap">
-    <a class="brand" href="/"><svg viewBox="0 0 40 40" aria-hidden="true"><path fill="currentColor" d="M6 6h6v5h4V6h8v5h4V6h6v12l-3 3v15H9V21l-3-3z" opacity=".18"/><path fill="none" stroke="currentColor" stroke-width="2.4" stroke-linejoin="round" d="M6 6h6v5h4V6h8v5h4V6h6v12l-3 3v15H9V21l-3-3z"/><path fill="currentColor" d="M17 36v-7a3 3 0 0 1 6 0v7z"/><rect x="18.8" y="16" width="2.4" height="6" rx="1.2" fill="currentColor"/></svg><span><b>رائد</b><small>سجل الثغرات الأمنية المعلنة بالعربية</small></span></a>
+    <a class="brand" href="/"><svg viewBox="0 0 48 48" aria-hidden="true"> <defs><clipPath id="mk"><rect width="48" height="48" rx="11"/></clipPath></defs> <rect width="48" height="48" rx="11" fill="#0f5c63"/> <path fill="#e0a21b" d="M15 6 L17 11.8 L22.8 13.8 L17 15.8 L15 21.6 L13 15.8 L7.2 13.8 L13 11.8 Z"/> <g clip-path="url(#mk)"> <path fill="#f2e3bf" d="M-2 48 L-2 39 C 4 34.5, 9 33.2, 14 33.8 C 19 28.5, 26 25.8, 33 26.8 C 40 27.9, 45.5 32, 50 37 L50 48 Z"/> <path fill="#0f5c63" d="M31.6 30.2 C 34.6 31.8, 36.4 34.8, 36.2 38.6 C 36 43, 33.6 46.6, 30.4 49.5 L 26.6 49.5 C 29.4 46.4, 31.2 43, 31.2 39.4 C 31.2 36.6, 30 34.6, 27.8 33.4 Z"/> </g> </svg><span><b>رائد</b><small>سجل الثغرات الأمنية المعلنة بالعربية</small></span></a>
     <button class="menu" type="button" aria-expanded="false" aria-controls="nav">القائمة</button>
     <nav class="nav" id="nav" aria-label="الأقسام"><a href="/latest/">أحدث الثغرات</a><a href="/kev/">المستغلة فعلياً</a><a href="/week/" aria-current="page">النشرة الأسبوعية</a><a href="/about/">عن البرنامج</a><a href="/cna/">الجهات المرقّمة</a><a href="/glossary/">المصطلحات</a></nav>
     <button class="theme" type="button" aria-label="تبديل المظهر الفاتح والداكن"><svg viewBox="0 0 24 24" fill="none" stroke="currentColor" stroke-width="2"><path d="M21 12.8A9 9 0 1 1 11.2 3a7 7 0 0 0 9.8 9.8z"/></svg></button>

diff --git a/docs/week/index.html b/docs/week/index.html
@@ -16,6 +16,9 @@
 <meta name="twitter:card" content="summary_large_image">
 <meta name="theme-color" content="#0f5c63">
 <link rel="icon" href="/assets/img/mark.svg" type="image/svg+xml">
+<link rel="icon" href="/assets/img/favicon-32.png" sizes="32x32" type="image/png">
+<link rel="apple-touch-icon" href="/assets/img/apple-touch-icon.png">
+<link rel="manifest" href="/manifest.webmanifest">
 <link rel="alternate" type="application/atom+xml" title="رائد: الثغرات الحرجة والمستغلة" href="/feed.xml">
 <link rel="preconnect" href="https://fonts.googleapis.com">
 <link rel="preconnect" href="https://fonts.gstatic.com" crossorigin>
@@ -29,7 +32,7 @@
 <a class="skip" href="#main">انتقل إلى المحتوى</a>
 <header class="top">
   <div class="wrap">
-    <a class="brand" href="/"><svg viewBox="0 0 40 40" aria-hidden="true"><path fill="currentColor" d="M6 6h6v5h4V6h8v5h4V6h6v12l-3 3v15H9V21l-3-3z" opacity=".18"/><path fill="none" stroke="currentColor" stroke-width="2.4" stroke-linejoin="round" d="M6 6h6v5h4V6h8v5h4V6h6v12l-3 3v15H9V21l-3-3z"/><path fill="currentColor" d="M17 36v-7a3 3 0 0 1 6 0v7z"/><rect x="18.8" y="16" width="2.4" height="6" rx="1.2" fill="currentColor"/></svg><span><b>رائد</b><small>سجل الثغرات الأمنية المعلنة بالعربية</small></span></a>
+    <a class="brand" href="/"><svg viewBox="0 0 48 48" aria-hidden="true"> <defs><clipPath id="mk"><rect width="48" height="48" rx="11"/></clipPath></defs> <rect width="48" height="48" rx="11" fill="#0f5c63"/> <path fill="#e0a21b" d="M15 6 L17 11.8 L22.8 13.8 L17 15.8 L15 21.6 L13 15.8 L7.2 13.8 L13 11.8 Z"/> <g clip-path="url(#mk)"> <path fill="#f2e3bf" d="M-2 48 L-2 39 C 4 34.5, 9 33.2, 14 33.8 C 19 28.5, 26 25.8, 33 26.8 C 40 27.9, 45.5 32, 50 37 L50 48 Z"/> <path fill="#0f5c63" d="M31.6 30.2 C 34.6 31.8, 36.4 34.8, 36.2 38.6 C 36 43, 33.6 46.6, 30.4 49.5 L 26.6 49.5 C 29.4 46.4, 31.2 43, 31.2 39.4 C 31.2 36.6, 30 34.6, 27.8 33.4 Z"/> </g> </svg><span><b>رائد</b><small>سجل الثغرات الأمنية المعلنة بالعربية</small></span></a>
     <button class="menu" type="button" aria-expanded="false" aria-controls="nav">القائمة</button>
     <nav class="nav" id="nav" aria-label="الأقسام"><a href="/latest/">أحدث الثغرات</a><a href="/kev/">المستغلة فعلياً</a><a href="/week/" aria-current="page">النشرة الأسبوعية</a><a href="/about/">عن البرنامج</a><a href="/cna/">الجهات المرقّمة</a><a href="/glossary/">المصطلحات</a></nav>
     <button class="theme" type="button" aria-label="تبديل المظهر الفاتح والداكن"><svg viewBox="0 0 24 24" fill="none" stroke="currentColor" stroke-width="2"><path d="M21 12.8A9 9 0 1 1 11.2 3a7 7 0 0 0 9.8 9.8z"/></svg></button>
